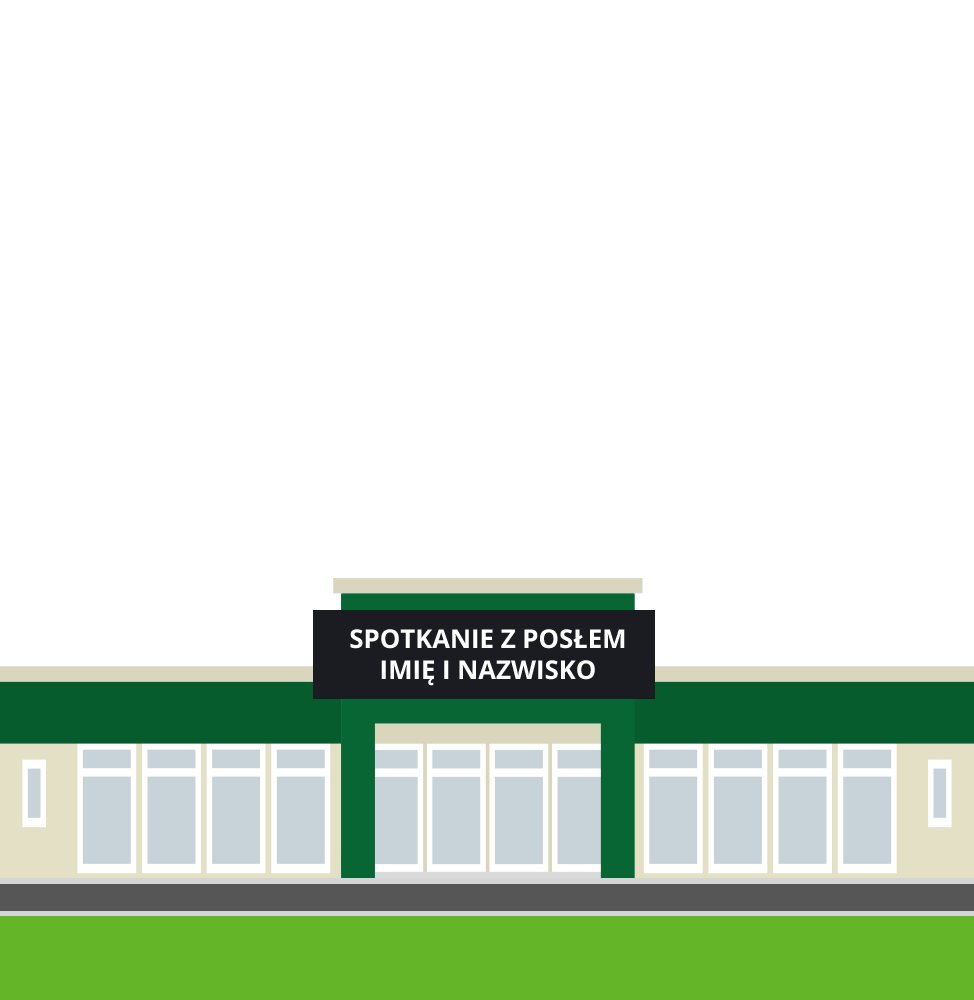
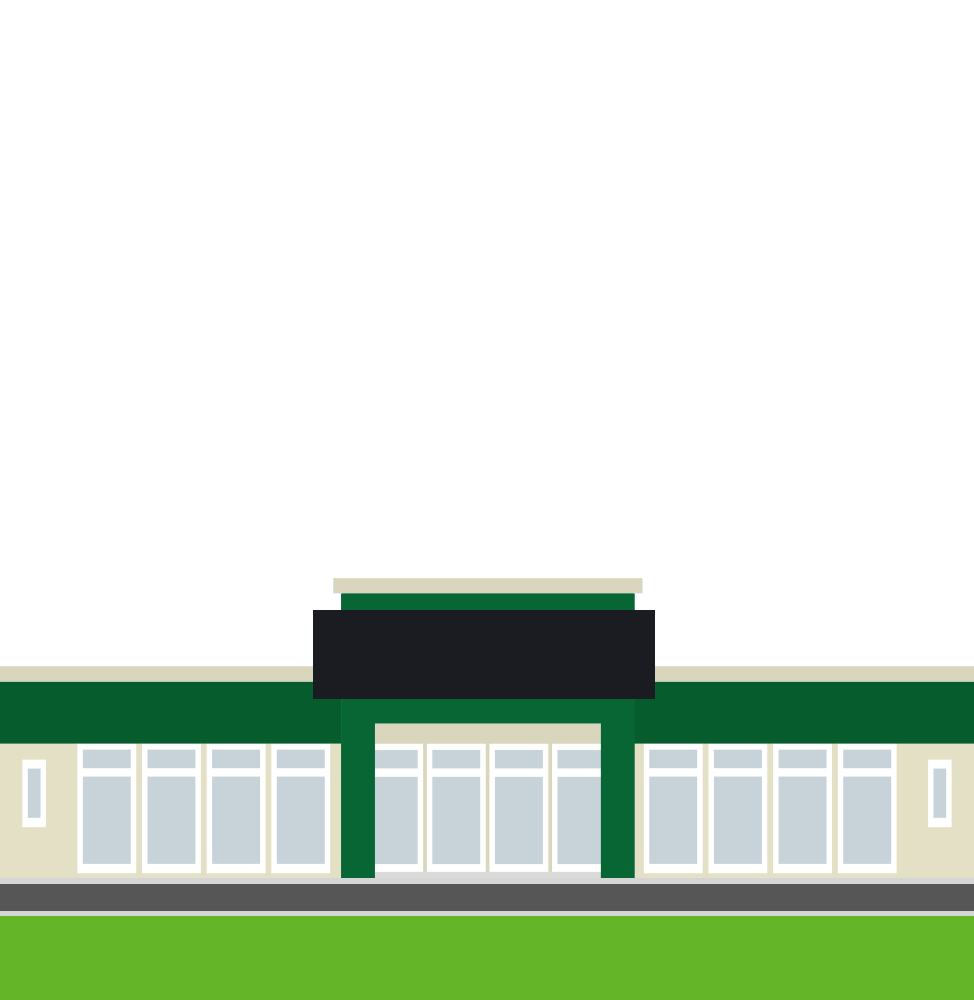
infograph

Changed region(s): [[0.3388, 0.62, 0.6468, 0.682]]

diff --git a/app/Plugin/Sejmometr/webroot/js/inner-story.js b/app/Plugin/Sejmometr/webroot/js/inner-story.js
@@ -161,7 +161,7 @@ jQuery(function ($) {
             .add(TweenMax.fromTo($medium.find('.scene.bank .stat.rachunki'), 0.5, {opacity: 0}, {opacity: 1}))
             .add(TweenMax.to($near.find('.posel'), 4, {left: $medium.find('.scene.spotkanie').position().left + 490}))
             .add(TweenMax.fromTo($medium.find('.scene.spotkanie .stat.sala'), 0.5, {opacity: 0}, {opacity: 1}))
-            .add(TweenMax.to($near.find('.posel'), 6, {left: $medium.find('.scene.tlumaczenia').position().left + $medium.find('.scene.tlumaczenia').width() - 170}))
+            .add(TweenMax.to($near.find('.posel'), 6, {left: $medium.find('.scene.tlumaczenia').position().left + $medium.find('.scene.tlumaczenia').width() - 210}))
             .add(TweenMax.fromTo($medium.find('.scene.tlumaczenia .stat.ekspertyzy'), 0.5, {opacity: 0}, {opacity: 1}))
             .add(TweenMax.to($near.find('.posel'), 5, {left: $medium.find('.scene.dom').position().left + $medium.find('.scene.dom').width() - 290}))
             .add(TweenMax.fromTo($medium.find('.scene.dom .stat.prywatny'), 0.25, {opacity: 0}, {opacity: 1}))
@@ -169,9 +169,29 @@ jQuery(function ($) {
 
         /*POSEL TAXI - WALK + CALL*/
         var poselTaxi = new TimelineMax()
-            .add(TweenMax.fromTo($near.find('.taksowka'), 4, {left: $medium.find('.scene.tlumaczenia').position().left}, { left: $medium.find('.scene.dom').position().left + $medium.find('.scene.dom').width() - 800}))
+            .add(TweenMax.fromTo($near.find('.taxi'), 1, {left: $medium.find('.scene.intro').position().left, opacity: 0}, { left: $medium.find('.scene.tlumaczenia').position().left, opacity: 1}))
+            .add(TweenMax.fromTo($near.find('.taxi'), 6, {left: $medium.find('.scene.tlumaczenia').position().left}, { left: $medium.find('.scene.dom').position().left + $medium.find('.scene.dom').width() - 300}))
+            .add(TweenMax.to($near.find('.posel'), 1.5, {left: $medium.find('.scene.dom').position().left + $medium.find('.scene.dom').width() - 220}))
             .add(TweenMax.to($near.find('.posel'), 0.1, {bottom: "-=15"}))
             .add(TweenMax.to($near.find('.posel'), 0.1, {bottom: "+=20", height: "-=50"}));
+
+        /*POSEL TAXI - RIDE*/
+        var poselTaxiRide = new TimelineMax()
+            .add(TweenMax.fromTo($medium.find('.scene.droga .stat.taksowka'), 0.5, {opacity: 0}, {opacity: 1}))
+            .add(TweenMax.fromTo($near.find('.taxi'), 2, {left: $medium.find('.scene.dom').position().left + $medium.find('.scene.dom').width() - 300}, {left: $medium.find('.scene.lotnisko').position().left}));
+
+        /*POSEL LOTNISKO - WALK*/
+        var poselLotnisko = new TimelineMax()
+            .add(TweenMax.from($near.find('.posel'), 0.1, {left: $medium.find('.scene.lotnisko').position().left}))
+            .add(TweenMax.to($near.find('.posel'), 0.1, {bottom: "-=20", height: "+=50"}))
+            .add(TweenMax.to($near.find('.posel'), 0.1, {bottom: "+=15"}))
+            .add(TweenMax.fromTo($medium.find('.scene.lotnisko .stat.loty'), 0.5, {opacity: 0}, {opacity: 1}))
+            .add(TweenMax.to($near.find('.posel'), 1, {left: $medium.find('.scene.lotnisko').position().left + 200}))
+            .add(TweenMax.to($near.find('.posel'), 0.5, {opacity: 0}));
+
+        /*POSEL LOT*/
+        var poselLot = new TimelineMax()
+            .add(TweenMax.fromTo($near.find('.samolot'), 5, {left: $medium.find('.scene.lotnisko').position().left + 215}, {left: $medium.find('.scene.stats').position().left, bottom: "+=" + $window.height() / 2, rotation: -10}));
 
         /*START*/
         new ScrollScene({
@@ -193,16 +213,18 @@ jQuery(function ($) {
             })
             .triggerElement($medium.find('.scene.sejm'))
             .setTween(sejmPosel)
+            .reverse(false)
             .addTo(controller);
 
         /*SAMOCHOD SEJM - BIURO*/
         new ScrollScene({
             duration: minScreenWidth / 2
         }).on("end", function () {
-                $medium.find('.scene.biuro .stat').addClass('out');
+                $near.find('.samochod').removeClass('in');
             })
             .triggerElement($medium.find('.scene.sejm .stat.przejazd'))
             .setTween(sejmSamochod)
+            .reverse(false)
             .addTo(controller);
 
         /*POSEL WALK - BIURO + INSIDE*/
@@ -210,31 +232,75 @@ jQuery(function ($) {
             duration: $medium.find('.scene.biuro').width() / 2
         }).on("start",function () {
                 $near.find('.posel').removeClass('hide').css({left: $medium.find('.scene.biuro').position().left + $medium.find('.scene.biuro').width() - 920})
-                $near.find('.samochod').removeClass('in');
                 $near.find('.posel').addClass('outfit');
             }).on("end", function () {
-                $medium.find('.scene.biuro, .scene.szpital, .scene.bank, .scene.spotkanie, .scene.tlumaczenia, .scene.dom').find('.stat').addClass('out');
+                $medium.find('.scene.biuro').find('.stat').addClass('out');
             })
             .triggerElement($medium.find('.scene.biuro'))
             .setTween(biuroPosel)
+            .reverse(false)
             .addTo(controller);
 
         /*POSEL WALK - BIURO, SZPITAL, BANK, SPOTKANIE, TLUMACZ, DOM*/
         new ScrollScene({
-            duration: ($medium.find('.scene.biuro').width() / 2 + $medium.find('.scene.szpital').width() + $medium.find('.scene.bank').width() + $medium.find('.scene.spotkanie').width() + $medium.find('.scene.tlumaczenia').width() + $medium.find('.scene.dom').width())
+            duration: ($medium.find('.scene.biuro').width() / 2 + $medium.find('.scene.szpital').width() + $medium.find('.scene.bank').width() + $medium.find('.scene.spotkanie').width() + $medium.find('.scene.tlumaczenia').width() + $medium.find('.scene.dom').width() - (minScreenWidth / 2))
         }).on("end", function () {
+                $medium.find('.scene.szpital, .scene.bank, .scene.spotkanie, .scene.tlumaczenia, .scene.dom').find('.stat').addClass('out');
             })
             .triggerElement($medium.find('.scene.szpital'))
             .setTween(poselWalk)
+            .reverse(false)
             .addTo(controller);
 
         /*POSEL TAXI - WALK + CALL*/
         new ScrollScene({
             duration: ($medium.find('.scene.dom').width() / 2)
         }).on("end", function () {
+                $near.find('.posel').addClass('hide');
+                $near.find('.taxi').addClass('in');
             })
             .triggerElement($medium.find('.scene.dom'))
             .setTween(poselTaxi)
+            .reverse(false)
+            .addTo(controller);
+
+        /*POSEL TAXI - RIDE*/
+        new ScrollScene({
+            duration: ($medium.find('.scene.droga').width() / 2)
+        }).on("end", function () {
+                $medium.find('.scene.droga').find('.stat').addClass('out');
+            })
+            .triggerElement($medium.find('.scene.droga .stat.taksowka'))
+            .setTween(poselTaxiRide)
+            .reverse(false)
+            .addTo(controller);
+
+        /*POSEL LOTNISKO - WALK*/
+        new ScrollScene({
+            duration: ($medium.find('.scene.lotnisko').width() / 2)
+        }).on("start", function () {
+                $near.find('.posel').removeClass('hide').css({left: $medium.find('.scene.lotnisko').position().left})
+                $near.find('.taxi').removeClass('in');
+            })
+            .on("end", function () {
+                $near.find('.posel').addClass('hide');
+                $medium.find('.scene.lotnisko').find('.stat').addClass('out');
+            })
+            .triggerElement($medium.find('.scene.lotnisko'))
+            .setTween(poselLotnisko)
+            .reverse(false)
+            .addTo(controller);
+
+
+        /*POSEL LOT*/
+        new ScrollScene({
+            duration: ($medium.find('.scene.lot').width())
+        }).on("end", function () {
+                controller.destroy();
+            })
+            .triggerElement($medium.find('.scene.lot'))
+            .setTween(poselLot)
+            .reverse(false)
             .addTo(controller);
     }
 
@@ -256,7 +322,8 @@ jQuery(function ($) {
         if (e.detail) {
             delta = e.detail * 40;
         }
-        scrollTo(String(delta));
+
+        scrollTo(String(Math.floor(delta * .4)));
 
         return false;
     });

diff --git a/app/Plugin/Sejmometr/webroot/less/inner-story.less b/app/Plugin/Sejmometr/webroot/less/inner-story.less
@@ -134,7 +134,17 @@ footer {
                     }
                 }
                 &.sejm {
-                    background: url(../Sejmometr/img/inner-story/scene_01_sejm.png) bottom left no-repeat, url(../Sejmometr/img/inner-story/default_road.png) bottom left repeat-x;
+                    background: url(../Sejmometr/img/inner-story/scene_01_sejm_background.png) bottom left no-repeat, url(../Sejmometr/img/inner-story/default_road.png) bottom left repeat-x;
+
+                    .building {
+                        background: url(../Sejmometr/img/inner-story/scene_01_sejm_building.png) left top no-repeat;
+                        bottom: 117px;
+                        height: 413px;
+                        left: 160px;
+                        position: absolute;
+                        width: 590px;
+                        z-index: 3;
+                    }
 
                     .stat.zarobki {
                         bottom: 485px;
@@ -178,6 +188,21 @@ footer {
                 &.spotkanie {
                     background: url(../Sejmometr/img/inner-story/scene_06_spotkanie.png) bottom left no-repeat, url(../Sejmometr/img/inner-story/default_road.png) bottom left repeat-x;
 
+                    .name {
+                        bottom: 302px;
+                        color: #ffffff;
+                        display: block;
+                        font-size: 26px;
+                        height: 88px;
+                        left: 313px;
+                        line-height: 30px;
+                        padding: 14px 15px;
+                        position: absolute;
+                        text-align: center;
+                        text-transform: uppercase;
+                        width: 342px;
+                    }
+
                     .stat.sala {
                         bottom: 450px;
                         left: 370px;
@@ -209,11 +234,21 @@ footer {
                     .stat.taksowka {
                         bottom: 220px;
                         left: 50%;
-                        margin-left: -250px;
+                        margin-left: -100px;
                     }
                 }
                 &.lotnisko {
-                    background: url(../Sejmometr/img/inner-story/scene_09_lotnisko.png) bottom left no-repeat, url(../Sejmometr/img/inner-story/default_airport.png) bottom left repeat-x;
+                    background: url(../Sejmometr/img/inner-story/scene_09_lotnisko_background.png) bottom left no-repeat, url(../Sejmometr/img/inner-story/default_airport.png) bottom left repeat-x;
+
+                    .building {
+                        background: url(../Sejmometr/img/inner-story/scene_09_lotnisko_building.png) top left no-repeat;
+                        bottom: 116px;
+                        height: 336px;
+                        left: 0;
+                        position: absolute;
+                        width: 434px;
+                        z-index: 1;
+                    }
 
                     .stat.loty {
                         bottom: 470px;
@@ -225,6 +260,7 @@ footer {
                 }
                 &.stats {
                     background-color: #41a8de;
+                    z-index: 1;
                 }
             }
         }
@@ -234,6 +270,7 @@ footer {
                 width: 60px;
                 height: 110px;
                 background: url(../Sejmometr/img/inner-story/animated_posel.png) top left no-repeat;
+                z-index: 1;
 
                 position: absolute;
                 left: -999px;
@@ -248,6 +285,7 @@ footer {
                 width: 291px;
                 height: 96px;
                 background: url(../Sejmometr/img/inner-story/animated_samochod.png) top left no-repeat;
+                z-index: 2;
 
                 position: absolute;
                 left: -999px;
@@ -262,6 +300,9 @@ footer {
                 width: 303px;
                 height: 109px;
                 background: url(../Sejmometr/img/inner-story/animated_taxi.png) top left no-repeat;
+                z-index: 2;
+
+                opacity: 0;
 
                 position: absolute;
                 left: -999px;
@@ -279,7 +320,7 @@ footer {
 
                 position: absolute;
                 left: -999px;
-                bottom: 40px;
+                bottom: 138px;
             }
         }
     }
